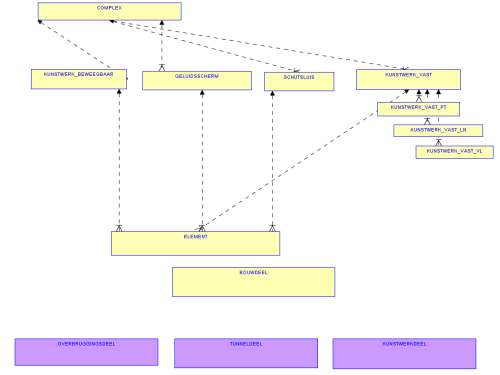
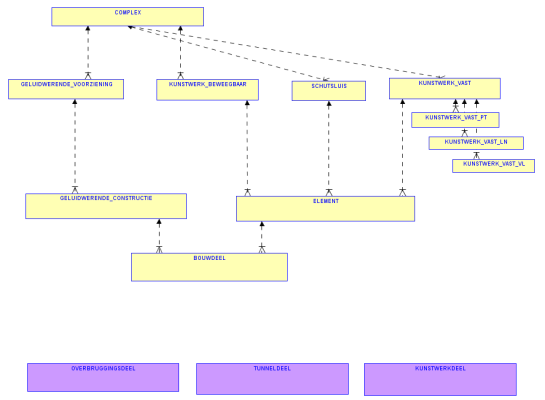
herstructurering kunstwerken, geluidschermen naar NEN

diff --git a/Objectdefinitie/objectbladen/3_Kunstwerken/3.14_GELUIDWERENDE_CONSTRUCTIE.md b/Objectdefinitie/objectbladen/3_Kunstwerken/3.14_GELUIDWERENDE_CONSTRUCTIE.md
@@ -1,0 +1,45 @@
+## BUDATA.GELUIDWERENDE_CONSTRUCTIE
+
+
+* __BGT inhoud:__ Ja
+* __Herkomst Definitie:__ NEN 2767-4 / PNH / [BGT Geluidsscherm](http://imgeo.geostandaarden.nl/def/imgeo-object/scheiding/geluidsscherm "BGT Geluidsscherm")
+* __Positionele nauwkeurigheid:__ 7,5 cm (NB, groter dan BGT)
+* __Geometrie:__ Lijn
+* __Definitie:__ Een Geluidwerende Constructie is het Element niveau uit de NEN 2767-4. Het is een constructief deel van een Geluidwerende voorziening met gelijkblijvende eigenschappen (zoals hoogte en materiaal) van maximaal 100m lengte.
+Als een Geluidwerende constructie over een grotere lengte dan 100m uniform is, wordt het toch opgeknipt in delen om een conditiescore per 100m te kunnen bepalen.
+
+
+***
+
+|KOLOM                           	|TYPE          	|DEFINITIE|
+|------                          	|----          	|-----    |
+|MATERIAALTYPE                   	|NUMBER(10,0)  	|Materiaaltype, keuzelijst [CT_MATERIAALTYPE]|
+|ID                              	|NUMBER(10,0)  	|Primary Key|
+|BOUWELEMENTTYPE	                |VARCHAR2(255) 	|Bouwelement type, keuzelijst [CT_BOUWELEMENT_TYPE]|
+|BOUWELEMENTTYPESPE		            |VARCHAR2(255) 	|Bouwelement Type Specificatie|
+|CONFORMNEN                      	|NUMBER(1,0)   	|Is Element conform NEN ja of nee|
+|OMSCHRIJVING                    	|VARCHAR2(255) 	|extra toelichting|
+|GUID                            	|VARCHAR2(40)  	|Global Unique Identifier|
+|CONDITIESCORE                   	|VARCHAR2(255) 	|Conditiescore conform NEN 2767-4|
+|CONDITIESCORE_DATUM               	|VARCHAR2(255) 	|Datum opname Conditiescore|
+|OBJECTID                        	|NUMBER(38,0)  	|Interne ID ArcGIS|
+|GELUID_VOORZ						|NUMBER(10,0)	|FK naar Geluidwerende voorziening[BUDATA.GELUIDWERENDE_VOORZIENING]|
+|GELUID_VOORZ_GUID					|VARCHAR2(40)	|GUID Geluidwerende voorziening|
+|GEOMETRIE							|SDO_GEOMETRY  	|Lijn|
+|OPMERKING							|VARCHAR2(255)	|Opmerking|
+|OPPERVLAKTE						|NUMBER(25,10)	|Oppervlakte van de constructie. m2, 2 decimalen|
+|HOOGTE								|NUMBER(25,10)	|Hoogte van de geluidwerende constructie tov. maaiveld. In meters, 2 decimalen|
+|IDENTIFICATIE                   	|VARCHAR2(44)  	|BGT, Uniek identificatienummer voor het object dat onveranderlijk is zolang het object bestaat|
+|BRONHOUDER                      	|VARCHAR2(20)  	|BGT, De bronhoudercode van het object|
+|INONDERZOEK                     	|CHAR(1)       	|BGT, Een aanduiding waarmee wordt aangegeven dat een onderzoek wordt uitgevoerd naar de juistheid van een of meer gegevens van het betreffende object|
+|LV_PUBDATUM                     	|DATE          	|BGT, Tijdstip waarop deze instantie van het object is opgenomen in de Landelijke Voorziening|
+|RELHOOGTELIGGING                	|NUMBER(10,0)  	|BGT, Aanduiding voor de relatieve hoogte van het object|
+|OBJBEGINTIJD                    	|DATE          	|BGT, Datum waarop het object bij de bronhouder is ontstaan|
+|OBJEINDTIJD                     	|DATE          	|BGT, Datum waarop het object bij de bronhouder niet meer geldig is|
+|EINDREGISTRATIE                 	|DATE          	|BGT, Eind van de periode waarop deze instantie van het object geldig is bij de bronhouder. Wanneer deze waarde niet is ingevuld is de instantie nog geldig|
+|TIJDSTIPREGISTRATIE             	|DATE          	|BGT, Tijdstip waarop deze instantie van het object is opgenomen door de bronhouder|
+|OPTALUD                         	|CHAR(1)       	|BGT, Indicatie of het object wel of niet op een hellend vlak ligt|
+
+***
+
+

diff --git a/Objectdefinitie/objectbladen/3_Kunstwerken/3.13_GELUIDWERENDE_VOORZIENING.md b/Objectdefinitie/objectbladen/3_Kunstwerken/3.13_GELUIDWERENDE_VOORZIENING.md
@@ -1,0 +1,42 @@
+## BUDATA.GELUIDWERENDE_VOORZIENING
+
+* __BGT inhoud:__ Nee
+* __Herkomst Definitie:__ NEN 2767-4 / PNH
+* __Positionele nauwkeurigheid:__ nvt
+* __Geometrie:__ Lijn
+* __Definitie:__ Onderdeel van een civiel-technisch werk voor de infrastructuur van wegen, water, spoorbanen, waterkeringen en/of leidingen. De NEN 2767-4 decompositie wordt gevolgd, waarbij GELUIDWERENDE_VOORZIENING als Beheerobject is aangemaakt om het element 'geluidwerende constructie' van een bovenliggend beheerobject te voorzien.
+Geluidwerende voorzieningen worden als zelfstandige objecten beheerd en niet als element van bv bruggen of wegen (zoals in de NEN 2767-4 beschreven).
+
+
+***
+
+|KOLOM                           	|TYPE          	|DEFINITIE|
+|------                          	|----          	|-----    |
+|OBJECTCODE                        	|VARCHAR2(255) 	|Identificatie van het object|
+|BIJZONDERHEID                   	|VARCHAR2(255) 	|extra toelichting|
+|OMSCHRIJVING                    	|VARCHAR2(255) 	|extra toelichting|
+|FOTO                            	|VARCHAR2(255) 	|URL naar Afbeelding|
+|GUID                            	|VARCHAR2(40)  	|Global Unique Identifier|
+|HM_BEGIN                        	|NUMBER(25,10) 	|Kilometrering eind kunstwerk|
+|HM_EIND	                       	|NUMBER(25,10) 	|Kilometrering start kunstwerk|
+|AANLEGJAAR                     	|NUMBER(10,0)  	|Aanlegjaar|
+|VERVANGINGSJAAR                   	|NUMBER(10,0)  	|Vervangingsjaar|
+|COMPLEX                         	|NUMBER(10,0) 	|FK naar Complex|
+|COMPLEX_GUID						|VARCHAR2(40)	|GUID van het Complex|
+|FUNDERINGTYPE                   	|VARCHAR2(255) 	|Fundering type, keuzelijst [CT_FUNDERING_TYPE]|
+|BEGROEID							|NUMBER(1.0)	|Indicatie of geluidsscherm begroeid is|
+|BEHEERDER                       	|VARCHAR2(255) 	|Beheerder van de halte, keuzelijst [CT_INSTANTIE]|
+|EIGENAAR                        	|VARCHAR2(255) 	|Eigenaar van het object, keuzelijst [CT_INSTANTIE]|
+|LEVENSCYCLUS                    	|VARCHAR2(255) 	|Levenscyclus, keuzelijst [CT_LEVENSCYCLUS]|
+|HALTE								|NUMBER(10,0)	|FK naar Halte|
+|ID                              	|NUMBER(10,0)  	|Primary Key|
+|REGIO                           	|VARCHAR2(255) 	|Regio naam, keuzelijst [CT_REGIO]|
+|STATUS                          	|VARCHAR2(255) 	|Status van de gegevens, keuzelijst [CT_STATUS]|
+|WEGTRAJECT                     	|NUMBER(10,0)  	|FK naar wegtraject|
+|VAARWEGTRAJECT                     |NUMBER(10,0)  	|FK naar vaarwegtraject|
+|OBJBEGINTIJD                    	|DATE          	|BGT, Datum waarop het object bij de bronhouder is ontstaan|
+|OBJEINDTIJD                     	|DATE          	|BGT, Datum waarop het object bij de bronhouder niet meer geldig is|
+|OBJECTID                        	|NUMBER(38,0)   |Interne ID ArcGIS|
+|GEOMETRIE                       	|SDO_GEOMETRY  	|Lijn|
+
+***

diff --git a/Objectdefinitie/objectbladen/3_Kunstwerken/3.0_ALGEMEEN.md b/Objectdefinitie/objectbladen/3_Kunstwerken/3.0_ALGEMEEN.md
@@ -9,19 +9,20 @@ De NEN 2767-4 Decompositie wordt gevolgd voor Kunstwerken en Oeverconstructies. 
 
 * KUNSTWERK_VAST
 * KUNSTWERK_BEWEEGBAAR
-* GELUIDSSCHERM
+* GELUIDWERENDE_VOORZIENING
 * SCHUTSLUIS
 
 Deze onderverdeling is vooral ingegeven door de verschillende objecteigenschappen (paspoortgegevens) die van deze objecten bijgehouden worden.
 
-NB. GELUIDSSCHERM is formeel in de NEN geen beheerobject, maar is pas op elementniveau gedefinieerd. Omdat PNH GELUIDSSCHERM als zelfstandig object beheerd is er voor gekozen om dit toch als entiteit op het hoogste niveau op te nemen.
+NB. GELUIDWERENDE_VOORZIENING is formeel in de NEN geen beheerobject. Een Geluidwerende Constructie komt in de NEN voor op Element niveau onder Wegen of Kunstwerken. Omdat PNH GELUIDSSCHERM als zelfstandig object beheerd is er voor gekozen om dit toch als entiteit op het hoogste niveau op te nemen.
+
 
 ![Kunstwerken](objectbladen\3_Kunstwerken\Kunstwerken.PNG)
 
 ### BGT
 
 Kunstwerken is in het BUDATA datamodel opgebouwd conform de NEN 2767-4 decompositie. Overkoepelend is er nog een Complex gedefinieerd om Beheer objecten te bundelen in 1 te beheren object.
-In deze decompositie wordt alleen het Beheerobject met een punt, lijn of vlak vastgelegd. De Elementen en Bouwdelen worden alleen alfanumeriek vastgelegd.
+In deze decompositie wordt het Beheerobject met een punt, lijn of vlak vastgelegd. De Bouwdelen worden alleen alfanumeriek vastgelegd. De Elementen van Oeverconstructies (vaarwegen) en Geluidschermen hebben een lijngeometrie die overeen moet komen met het betreffende BGT object.
 De BGT sluit niet aan op de NEN 2767-4. Er zijn aparte objecten gedefinieerd om de Kunstwerken conform BGT vast te kunnen leggen. Het is dus de bedoeling dat een kunstwerk zowel vastgelegd wordt conform de NEN als de BGT.
 
 ***

diff --git a/Objectdefinitie/objectbladen/3_Kunstwerken/3.4_BOUWDEEL.md b/Objectdefinitie/objectbladen/3_Kunstwerken/3.4_BOUWDEEL.md
@@ -23,12 +23,13 @@
 |ELEMENT                         	|NUMBER(10,0)  	|FK naar Element|
 |OBJBEGINTIJD                      	|DATE          	|Begintijd object|
 |OBJEINDTIJD                      	|DATE          	|Eindtijd object|
-|OBJECTID                        	|NUMBER(,0)    	|Interne ID ArcGIS|
+|OBJECTID                        	|NUMBER(38,0)  	|Interne ID ArcGIS|
 |ELEMENT_GUID						|VARCHAR2(40)	|GUID van het Element|
 |CONDITIESCORE_DATUM               	|VARCHAR2(255) 	|Datum opname Conditiescore|
 |AANLEGJAAR							|NUMBER(10,0)	|Aanlegjaar|
 |RENOVATIEJAAR 						|NUMBER(10,0)	|Renovatiejaar|
 |GELUIDWERENDE_CONSTRUCTIE         	|NUMBER(10,0)  	|FK naar Geluidwerende Constructie [BUDATA.GELUIDWERENDE_CONSTRUCTIE]|
 |GELUID_W_CONSTR_GUID				|VARCHAR2(40)	|GUID van Geluidwerende Constructie|
+
 ***
 
